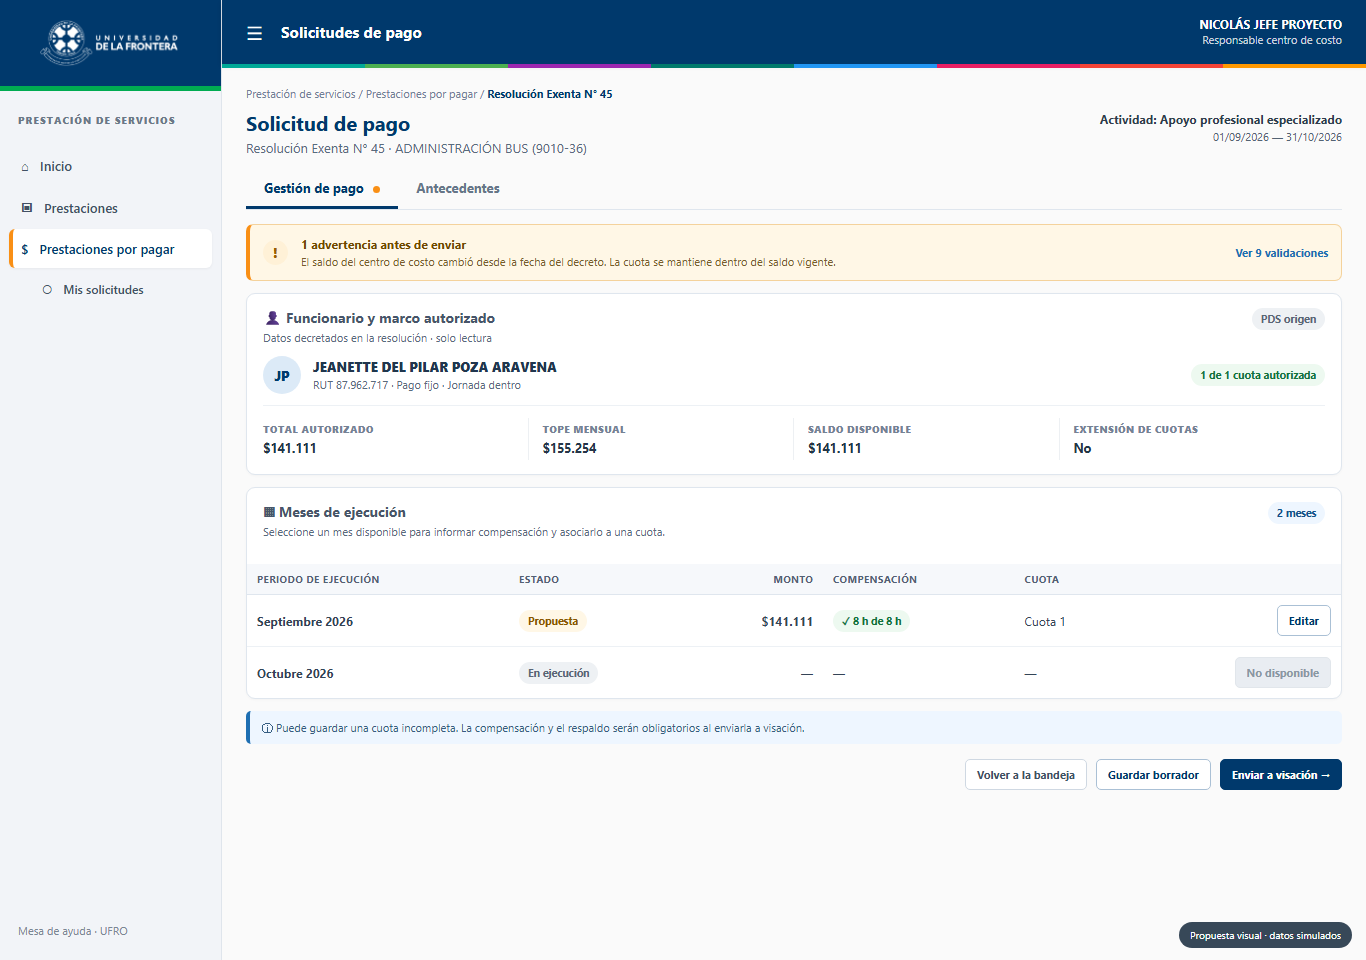
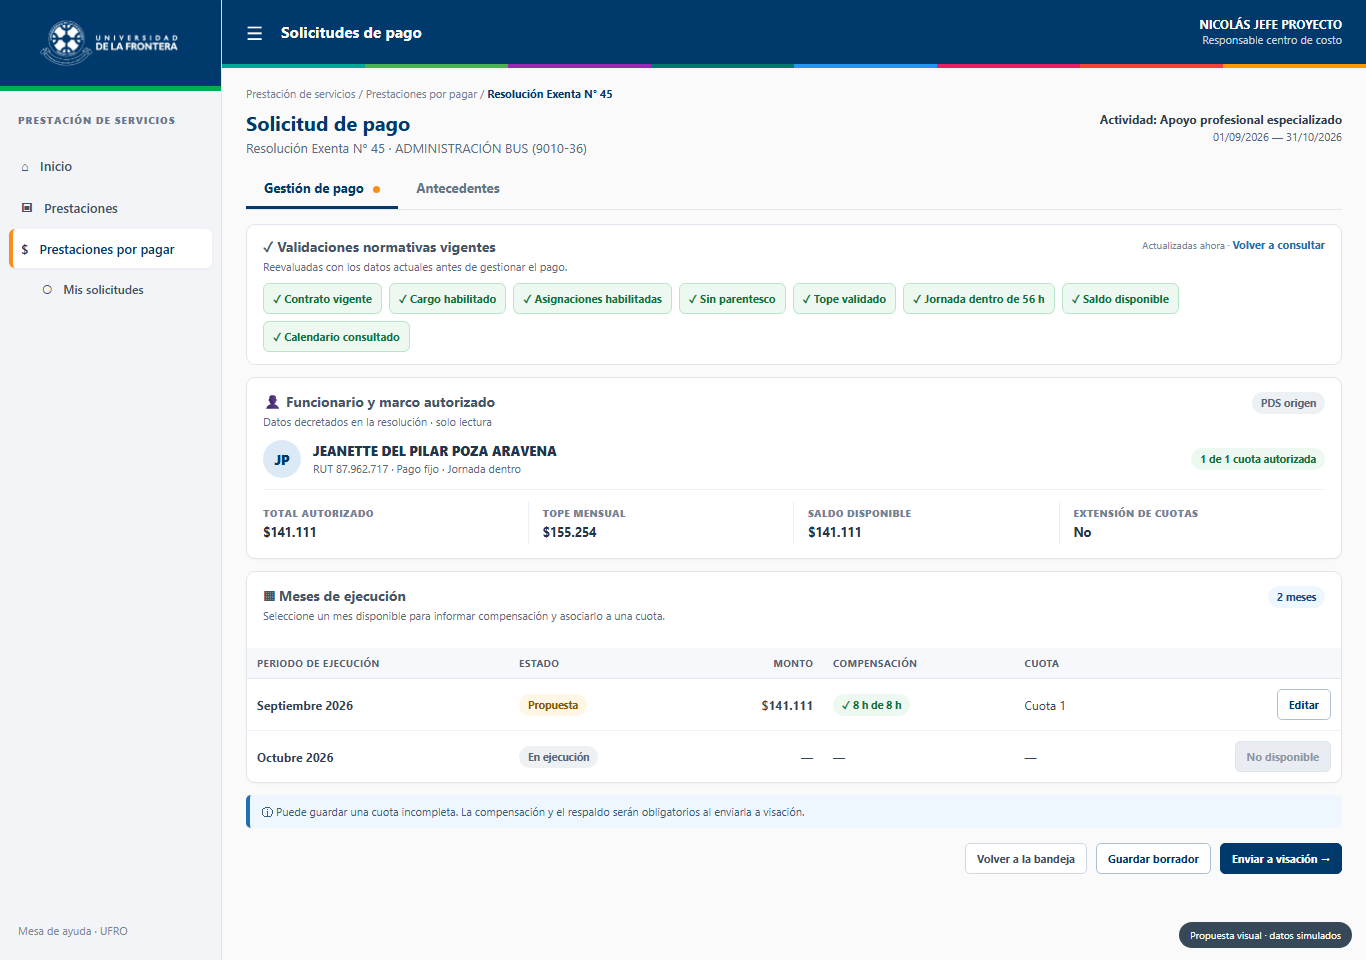
feat: add database scripts, mockups, and documentation for payment workflow details and validations

diff --git a/04_vista_jefe_proyecto_pago.html b/04_vista_jefe_proyecto_pago.html
@@ -33,7 +33,7 @@
     .card{background:white;border:1px solid var(--border);border-radius:9px;box-shadow:0 1px 3px #00000008;margin-bottom:12px;overflow:hidden}
     .card-pad{padding:14px 16px}.card-head{display:flex;justify-content:space-between;align-items:flex-start;margin-bottom:11px}.card-title{color:#475569;font-size:14px;font-weight:750;display:flex;gap:8px;align-items:center}.card-note{color:var(--muted);font-size:11px;margin-top:3px}.actions{display:flex;gap:7px;align-items:center}
     .tag{display:inline-flex;align-items:center;gap:5px;border-radius:999px;padding:4px 9px;font-size:10.5px;font-weight:750;white-space:nowrap}.tag.blue{background:var(--info);color:#14518b}.tag.orange{background:var(--warn);color:#8a5600}.tag.green{background:var(--ok);color:#14733c}.tag.gray{background:#eef1f4;color:#596777}.tag.red{background:#fff1f0;color:#b42318}
-    .validation{display:grid;grid-template-columns:28px 1fr auto;gap:10px;align-items:center;padding:11px 13px;background:var(--warn);border:1px solid #f4d29c;border-left:4px solid var(--orange);border-radius:7px}.vicon{width:25px;height:25px;border-radius:50%;background:#fff1d7;color:#9b5c00;display:flex;align-items:center;justify-content:center;font-weight:900}.vtext strong{display:block;color:#6f4800;font-size:12px}.vtext span{font-size:11px;color:#775d2c}.link{color:var(--blue-2);font-weight:700;font-size:11px}
+    .validation-panel{background:white;border:1px solid var(--border);border-radius:9px;padding:12px 16px;margin-bottom:12px}.validation-head{display:flex;justify-content:space-between;align-items:flex-start;margin-bottom:9px}.validation-tags{display:flex;flex-wrap:wrap;gap:7px}.pds-check{display:inline-flex;align-items:center;gap:6px;min-height:31px;padding:6px 9px;border-radius:6px;border:1px solid;font-size:11px;font-weight:700}.pds-check.ok{color:#14733c;background:var(--ok);border-color:#b9e5c9}.pds-check.warn{color:#805500;background:var(--warn);border-color:#f1d29c}.pds-check.error{color:#b42318;background:#fff1f0;border-color:#efb8b3}.pds-check.pending{color:#596777;background:#f0f3f6;border-color:#dce2e8}.validation-time{color:#748295;font-size:10px}.link{color:var(--blue-2);font-weight:700;font-size:11px}
     .info-grid{display:grid;grid-template-columns:repeat(4,1fr);gap:0}.info{border-right:1px solid #edf0f3;padding:4px 14px}.info:first-child{padding-left:0}.info:last-child{border-right:0}.label{font-size:10px;color:#748295;text-transform:uppercase;font-weight:800;letter-spacing:.4px}.value{margin-top:4px;color:#243548;font-weight:650;font-size:12.5px}.person{display:flex;align-items:center;gap:12px;margin-bottom:12px;padding-bottom:11px;border-bottom:1px solid #edf1f5}.avatar{width:38px;height:38px;border-radius:50%;background:#dceaf7;color:var(--blue);display:flex;align-items:center;justify-content:center;font-weight:800}.person-name{color:#20364e;font-weight:800}.person-rut{color:var(--muted);font-size:11px;margin-top:2px}
     table{width:100%;border-collapse:collapse}.table th{text-align:left;background:#f6f8fb;color:#526174;font-size:10px;text-transform:uppercase;letter-spacing:.35px;padding:8px 10px;border-bottom:1px solid #dfe6ee}.table td{padding:10px;border-bottom:1px solid #edf1f5;color:#344456;font-size:12px}.table tr:last-child td{border-bottom:0}.right{text-align:right!important}.btn{border-radius:5px;padding:7px 11px;border:1px solid #cfd8e2;background:white;color:#3f5266;font-weight:700;font-size:11px}.btn.primary{background:var(--blue);border-color:var(--blue);color:white}.btn.success{background:var(--green);border-color:var(--green);color:white}.btn.ghost{color:var(--blue);border-color:#aac0d5}.btn.danger{color:#b42318;border-color:#eab5b0;background:#fff}.btn.disabled{background:#e9edf2;color:#8b97a4;border-color:#e1e6eb}
     .footer-actions{display:flex;justify-content:flex-end;gap:9px;padding-top:3px}.micro{font-size:10px;color:#7a8796}.callout{background:var(--info);border-left:4px solid var(--blue-2);padding:9px 12px;color:#355d81;border-radius:5px;font-size:11px}
@@ -69,11 +69,11 @@
         <section class="screen" data-screen="resumen">
           <div class="page-head"><div><h1 class="page-title">Solicitud de pago</h1><div class="page-sub">Resolución Exenta N° 45 · ADMINISTRACIÓN BUS (9010-36)</div></div><div class="page-meta"><strong>Actividad: Apoyo profesional especializado</strong>01/09/2026 — 31/10/2026</div></div>
           <div class="tabs"><div class="tab active">Gestión de pago <span class="dot"></span></div><div class="tab">Antecedentes</div></div>
-          <div class="validation"><div class="vicon">!</div><div class="vtext"><strong>1 advertencia antes de enviar</strong><span>El saldo del centro de costo cambió desde la fecha del decreto. La cuota se mantiene dentro del saldo vigente.</span></div><span class="link">Ver 9 validaciones</span></div>
-          <div class="card card-pad" style="margin-top:12px"><div class="card-head"><div><div class="card-title">👤 Funcionario y marco autorizado</div><div class="card-note">Datos decretados en la resolución · solo lectura</div></div><span class="tag gray">PDS origen</span></div><div class="person"><div class="avatar">JP</div><div><div class="person-name">JEANETTE DEL PILAR POZA ARAVENA</div><div class="person-rut">RUT 87.962.717 · Pago fijo · Jornada dentro</div></div><div style="margin-left:auto"><span class="tag green">1 de 1 cuota autorizada</span></div></div><div class="info-grid"><div class="info"><div class="label">Total autorizado</div><div class="value">$141.111</div></div><div class="info"><div class="label">Tope mensual</div><div class="value">$155.254</div></div><div class="info"><div class="label">Saldo disponible</div><div class="value">$141.111</div></div><div class="info"><div class="label">Extensión de cuotas</div><div class="value">No</div></div></div></div>
+          <div class="validation-panel"><div class="validation-head"><div><div class="card-title">✓ Validaciones normativas vigentes</div><div class="card-note">Reevaluadas con los datos actuales antes de gestionar el pago.</div></div><div class="validation-time">Actualizadas ahora · <span class="link">Volver a consultar</span></div></div><div class="validation-tags"><span class="pds-check ok">✓ Contrato vigente</span><span class="pds-check ok" id="check-disablement">✓ Cargo habilitado</span><span class="pds-check ok">✓ Asignaciones habilitadas</span><span class="pds-check ok">✓ Sin parentesco</span><span class="pds-check ok">✓ Tope validado</span><span class="pds-check ok">✓ Jornada dentro de 56 h</span><span class="pds-check ok">✓ Saldo disponible</span><span class="pds-check ok">✓ Calendario consultado</span></div></div>
+          <div class="card card-pad"><div class="card-head"><div><div class="card-title">👤 Funcionario y marco autorizado</div><div class="card-note">Datos decretados en la resolución · solo lectura</div></div><span class="tag gray">PDS origen</span></div><div class="person"><div class="avatar">JP</div><div><div class="person-name">JEANETTE DEL PILAR POZA ARAVENA</div><div class="person-rut">RUT 87.962.717 · Pago fijo · Jornada dentro</div></div><div style="margin-left:auto"><span class="tag green">1 de 1 cuota autorizada</span></div></div><div class="info-grid"><div class="info"><div class="label">Total autorizado</div><div class="value">$141.111</div></div><div class="info"><div class="label">Tope mensual</div><div class="value">$155.254</div></div><div class="info"><div class="label">Saldo disponible</div><div class="value">$141.111</div></div><div class="info"><div class="label">Extensión de cuotas</div><div class="value">No</div></div></div></div>
           <div class="card"><div class="card-pad"><div class="card-head"><div><div class="card-title">▦ Meses de ejecución</div><div class="card-note">Seleccione un mes disponible para informar compensación y asociarlo a una cuota.</div></div><span class="tag blue">2 meses</span></div></div><table class="table"><thead><tr><th>Periodo de ejecución</th><th>Estado</th><th class="right">Monto</th><th>Compensación</th><th>Cuota</th><th></th></tr></thead><tbody><tr><td><strong>Septiembre 2026</strong></td><td><span class="tag orange">Propuesta</span></td><td class="right"><strong>$141.111</strong></td><td><span class="tag green">✓ 8 h de 8 h</span></td><td>Cuota 1</td><td class="right"><button class="btn ghost">Editar</button></td></tr><tr><td><strong>Octubre 2026</strong></td><td><span class="tag gray">En ejecución</span></td><td class="right">—</td><td>—</td><td>—</td><td class="right"><button class="btn disabled">No disponible</button></td></tr></tbody></table></div>
           <div class="callout">ⓘ Puede guardar una cuota incompleta. La compensación y el respaldo serán obligatorios al enviarla a visación.</div>
-          <div class="footer-actions" style="margin-top:12px"><button class="btn">Volver a la bandeja</button><button class="btn ghost">Guardar borrador</button><button class="btn primary">Enviar a visación →</button></div>
+          <div class="footer-actions" style="margin-top:12px"><button class="btn">Volver a la bandeja</button><button class="btn ghost">Guardar borrador</button><button class="btn primary" id="send-button">Enviar a visación →</button></div>
         </section>
 
         <section class="screen" data-screen="compensacion">
@@ -114,9 +114,19 @@
   </div>
   <div class="state-note">Propuesta visual · datos simulados</div>
   <script>
-    const requested = new URLSearchParams(location.search).get('view') || 'resumen';
+    const params = new URLSearchParams(location.search);
+    const requested = params.get('view') || 'resumen';
     const screen = document.querySelector(`[data-screen="${requested}"]`) || document.querySelector('[data-screen="resumen"]');
     screen.classList.add('active');
+    if (requested === 'resumen' && params.get('validation') === 'error') {
+      const check = document.getElementById('check-disablement');
+      check.className = 'pds-check error';
+      check.textContent = '× Cargo inhabilitado';
+      check.title = 'El cargo vigente del funcionario se encuentra inhabilitado para DU288.';
+      const send = document.getElementById('send-button');
+      send.className = 'btn disabled';
+      send.textContent = 'Envío bloqueado';
+    }
   </script>
 </body>
 </html>

diff --git a/plan_vista_detalle_pago.md b/plan_vista_detalle_pago.md
@@ -48,7 +48,7 @@ modificarla, y la interfaz no debe ofrecer ningún control que lo sugiera.
 | :-- | :--- | :--- |
 | 1 | Encabezado de página | Título, resolución, centro de costo, actividad, período general |
 | 2 | Estado | Badge de la cuota en curso, si existe |
-| 3 | Resumen de validaciones | Solo cuando hay incidencias; lista con severidad |
+| 3 | Validaciones normativas vigentes | Siempre visibles como tags, con la misma semántica de la resolución |
 | 4 | Funcionario | Selector si hay más de uno + marco autorizado, solo lectura |
 | 5 | Meses de ejecución | Tabla: mes, estado, monto, compensación, cuota |
 | 6 | Compensación realizada | Aparece al elegir un mes; calendario y contraste |
@@ -153,29 +153,51 @@ permiso.
 
 El panel normativo se **vuelve a correr completo** en esta vista. No se confía en que la
 resolución ya validó: entre el decreto y el pago pueden haber cambiado el contrato, el cargo, el
-saldo o la vigencia del responsable.
+saldo o la vigencia del responsable. Se consulta al abrir el detalle y se vuelve a consultar antes
+de enviar la cuota; no se reutiliza como resultado vigente el snapshot guardado por resolución.
 
 ### 4.1 Qué se revalida y con qué endpoint existente
 
 | Control | Endpoint |
 | :--- | :--- |
-| Perfil y contrato del funcionario | `/normative/staff-profile/{rutPerson}` |
-| Tope calculado | `/normative/calculated-cap/{rutPerson}` |
+| Perfil y contratos vigentes del funcionario | `/normative/staff-profile/{rutPerson}` |
+| Inhabilidad consolidada del contrato/cargo | `POST /normative/disablement-staff` |
 | Asignaciones inhabilitantes | `/normative/staff-assignments/{rutPerson}` |
 | Parentesco | `/normative/check-relationship` |
 | Tope por cargo | `/normative/staff-position-cap` |
-| PDS previas del funcionario | `/normative/staff-previous-provisions/{rutPerson}` |
+| PDS previas del funcionario | `/staff-previous-provisions/{rutPerson}` |
 | Saldo del centro de costo | `/cost-center-balance/{codUnifin}/{codCcto}` |
 | Validación de saldo | `/normative/cost-center-balance-validation` |
 | Calendario institucional | `/normative/institutional-calendar` |
 
-**Ninguno es nuevo.** Los nueve los invoca hoy el formulario de resolución.
+**Ninguno es nuevo.** El endpoint `/normative/calculated-cap/{rutPerson}` no se consulta aparte:
+en el backend actual es un alias temporal de `staff-profile` y repetirlo duplicaría la misma
+lectura. Para el jefe de proyecto se usa `/staff-previous-provisions/{rutPerson}`; la variante
+`/normative/staff-previous-provisions/{rutPerson}` exige rol DGDP.
 
 ### 4.2 Dónde se muestran
 
-En el bloque 3, con el mismo componente `Du288ValidationSummary` y la misma semántica de
-severidad que ya usa resolución: error bloquea, advertencia deja continuar, informativa solo
-acompaña.
+En el bloque 3, siempre visibles y con el patrón de tags `.pds-check` que utiliza el resumen de
+funcionarios de la resolución. No se usa un aviso agregado ni `Du288ValidationSummary` para los
+resultados normativos normales; ese componente queda reservado para errores de formulario al
+intentar guardar o enviar.
+
+Tags mínimos por funcionario:
+
+- Contrato vigente.
+- Cargo habilitado.
+- Asignaciones habilitadas.
+- Sin parentesco / Parentesco.
+- Tope validado / pendiente / excedido.
+- Jornada dentro del máximo semanal, considerando PDS previas.
+- Saldo disponible / insuficiente.
+- Calendario institucional consultado / no disponible.
+
+Cada tag conserva los estados y colores de resolución: verde confirma, amarillo advierte, rojo
+bloquea y gris indica pendiente o fuente no disponible. El texto y el icono siempre acompañan al
+color. Si una validación falla, cambia **ese tag** y su tooltip explica la causa; no aparece un
+banner global sustituyendo los resultados individuales. Un error o una validación pendiente que
+sea obligatoria deshabilita «Enviar a visación», pero no «Guardar borrador».
 
 ### 4.3 Lo que esta vista valida y resolución no
 

diff --git a/evidencia_de_la_cuota.md b/evidencia_de_la_cuota.md
@@ -1,0 +1,100 @@
+# Respaldo documental de la cuota — `id_evidenc`
+
+**Fecha:** 01-10-2026
+**Definición del negocio:** un documento por cuota —PDF u otro— que contiene **toda** la evidencia
+de esa solicitud de pago. Lo sube el **jefe de proyecto**.
+
+---
+
+## 1. Dónde calza
+
+`sg_epag.id_evidenc int NULL` — una columna, un documento, por cuota. Coincide exactamente con la
+definición.
+
+---
+
+## 2. Lo que hay que saber antes de construirlo
+
+### 2.1 El binario no vive en Sybase
+
+El sistema guarda los archivos en **MySQL**, y Sybase solo conserva el identificador:
+
+| Uso | Dónde | Clave |
+| :--- | :--- | :--- |
+| Adjunto de una solicitud | `MySecGen.sg_doju_<año>` | `id_docum` = número de solicitud |
+| Documento del archivo universitario | `MyArchivo.<tabla>` | `id_docum`, con la tabla como parámetro |
+
+La tabla está **particionada por año**, así que recuperar un archivo exige conocer el año además
+del identificador. Por eso `ServiceProvisionRequestFile` lleva un campo `tab_mysql`.
+
+### 2.2 Hay un diseño previo más complejo, nunca construido
+
+En la fase DU09 se planificó un modelo de evidencias **por mes**, con catálogo de tipos:
+
+```
+sg_tevi  ──< sg_fuev >── sg_fume
+tipos de     evidencias    mes
+evidencia    (cod_tievi)   (id_funmes)
+```
+
+Existe el modelo TypeScript `ServiceProvisionRequestFile` con esa forma —`id_file`, `id_solicit`,
+`id_funmes`, `cod_tievi`, `comentario`, `rut_creaci`, `tip_archiv`, `tab_mysql`— y existe su
+repositorio `ServiceProvisionRequestFileRepository`.
+
+**El repositorio está vacío.** Sus cinco métodos son `//TODO: run query`. Las tablas `sg_fuev` y
+`sg_tevi` tampoco existen en la base.
+
+### 2.3 `sg_fume.id_evidenc` sobra
+
+La columna existe también en el mes. Con un documento por cuota, no tiene uso: la evidencia
+pertenece a la solicitud de pago completa, no a cada mes que abarca.
+
+Conviene dejarla sin escribir y documentarlo, o quitarla cuando se toque `sg_fume` por el desfase
+de `sg_fum2`, que ya está pendiente.
+
+---
+
+## 3. Lo que la definición simplifica
+
+| Del diseño previo | Con un documento por cuota |
+| :--- | :--- |
+| `sg_fuev` — tabla de evidencias | **No hace falta.** `sg_epag.id_evidenc` basta |
+| `sg_tevi` — catálogo de tipos | **No hace falta.** Un solo documento, sin tipificar |
+| Vínculo por mes (`id_funmes`) | Reemplazado por el vínculo a la cuota |
+| Varias evidencias por mes | Una por cuota |
+
+Queda un `int` apuntando a un registro en MySQL. Nada más.
+
+---
+
+## 4. Lo que falta construir
+
+| # | Qué | Nota |
+| :-- | :--- | :--- |
+| 1 | Decidir el espacio de `id_evidenc` | No puede colisionar con `id_docum` de solicitudes si comparte tabla |
+| 2 | Tabla MySQL o reutilizar `sg_doju_<año>` | Si se reutiliza, (1) es obligatorio |
+| 3 | `POST` de subida | Multipart, hex a MySQL, devuelve el `id_evidenc` |
+| 4 | `GET` de descarga | Autorizado por responsable del centro de costo, como el resto del módulo |
+| 5 | Reemplazo del archivo | Mientras la cuota esté en estado 1 o 3 |
+
+El punto **1** es el que hay que resolver primero. Si el PDF de la cuota se guarda en
+`sg_doju_<año>` con `id_docum = id_evidenc`, y ese espacio ya lo usan los números de solicitud,
+dos registros distintos pueden chocar. Las salidas:
+
+- una **tabla MySQL propia** para evidencias de pago, con su propio correlativo;
+- o un **rango reservado** dentro de `sg_doju_<año>`, que es frágil.
+
+La primera es más limpia y no toca nada existente.
+
+---
+
+## 5. Reglas del documento
+
+| | |
+| :--- | :--- |
+| Quién lo sube | Jefe de proyecto, responsable vigente del centro de costo |
+| Cuándo | Mientras la cuota esté en **1 Propuesta** o **3 Observada** |
+| Obligatorio | **Al enviar**, no al guardar el borrador |
+| Cuántos | Uno por cuota. Subir otro reemplaza al anterior |
+| Quién lo ve | El jefe de proyecto y DGDP durante la visación |
+| Después del envío | Solo lectura |

diff --git a/requerimientos_wf/9_catastro_validaciones_y_saldos.md b/requerimientos_wf/9_catastro_validaciones_y_saldos.md
@@ -318,7 +318,7 @@ Registrados explícitamente como pendientes en [reglas_restricciones_du288_d09.m
 | Deudas institucionales (fondo crédito, fondos por rendir) | SISPER / Finanzas | Pago, con inhabilidad absoluta desde 2027-01-01 |
 | Licencias médicas | SISPER | Pago, por periodo cubierto |
 | Permisos sin goce de sueldo | SISPER | Pago, por periodo cubierto |
-| Receso universitario | Calendario institucional | Pago, con acreditación de trabajo efectivo |
+| ~~Receso universitario~~ | ~~Calendario institucional~~ | **Fuera de alcance** — ver PAG-35 |
 | Detalle de excepciones ANID certificadas | DIUFRO / DITT | Resolución, heredado por el pago |
 | Saldo presupuestario por ítem y etapa | FIN21 | Ambos; en pago es obligatorio |
 | Similitud de funciones con el contrato base | Manual / jefatura | Resolución |
@@ -365,7 +365,7 @@ Todo lo de esta parte está en estado `POR CREAR`, salvo lo que se indique. La c
 | PAG-32 | Constancia jurada de parentesco presentada | RES-IN-07, diferida desde la resolución | bloqueo |
 | PAG-33 | Sin licencia médica en el periodo cubierto | `sp_eaus` grupo 2 — fuente confirmada 30-09-2026 | bloqueo |
 | PAG-34 | Sin permiso sin goce de sueldo en el periodo cubierto | `sp_eaus` grupo 1 código 2 — fuente confirmada 30-09-2026 | bloqueo |
-| PAG-35 | Receso universitario no pagado salvo trabajo efectivo acreditado | nuevo | bloqueo con acreditación |
+| ~~PAG-35~~ | ~~Receso universitario no pagado salvo trabajo efectivo acreditado~~ | **Fuera de alcance 01-10-2026** — el respaldo documental acompaña la solicitud igual, caiga o no en receso, así que la distinción no cambia la decisión de pago | — |
 | PAG-36 | Proyecto vigente y no cerrado al momento de la ejecución | nuevo | bloqueo |
 | PAG-37 | Sin deuda institucional no regularizada (desde 2027-01-01) | RES-IN-08 revalidado | bloqueo desde esa fecha |
 | PAG-38 | Lo informado en `sg_fuc2` cubre lo comprometido en `sg_fuco` para los meses de la cuota | RES-JO-03 adaptado (`sg_fuc2`) | **bloquea el envío, no el registro** — decidido 01-10-2026 |
@@ -427,7 +427,7 @@ Las cuotas se materializan en `sg_fume` en el paso **Enviar** (MOD-12): antes de
 | D2 | Confirmación de `cod_tipmov = 21` | SAL-04, SAL-05 |
 | D3 | Fuente maestra de licencias y permisos sin goce. G01 indica que el dato existe en alguna base, pero aún no está identificada | PAG-33, PAG-34 |
 | D4 | Fuente de deuda institucional | RES-IN-08, PAG-37 |
-| D5 | Calendario institucional de receso | PAG-35 |
+| ~~D5~~ | ~~Calendario institucional de receso~~ | Sin dependencia: PAG-35 quedó fuera de alcance |
 | D6 | Catálogo documental aprobado | PAG-11 |
 | D7 | Permisos sobre `wf_sol2` / `wf_tra1` | control de saldo con detalle de compromisos |
 | D8 | **Sistema de control de asistencia: marcaje biométrico y reloj.** Fuente distinta de SISPER, no inventariada en ninguna integración actual | PAG-38 |
